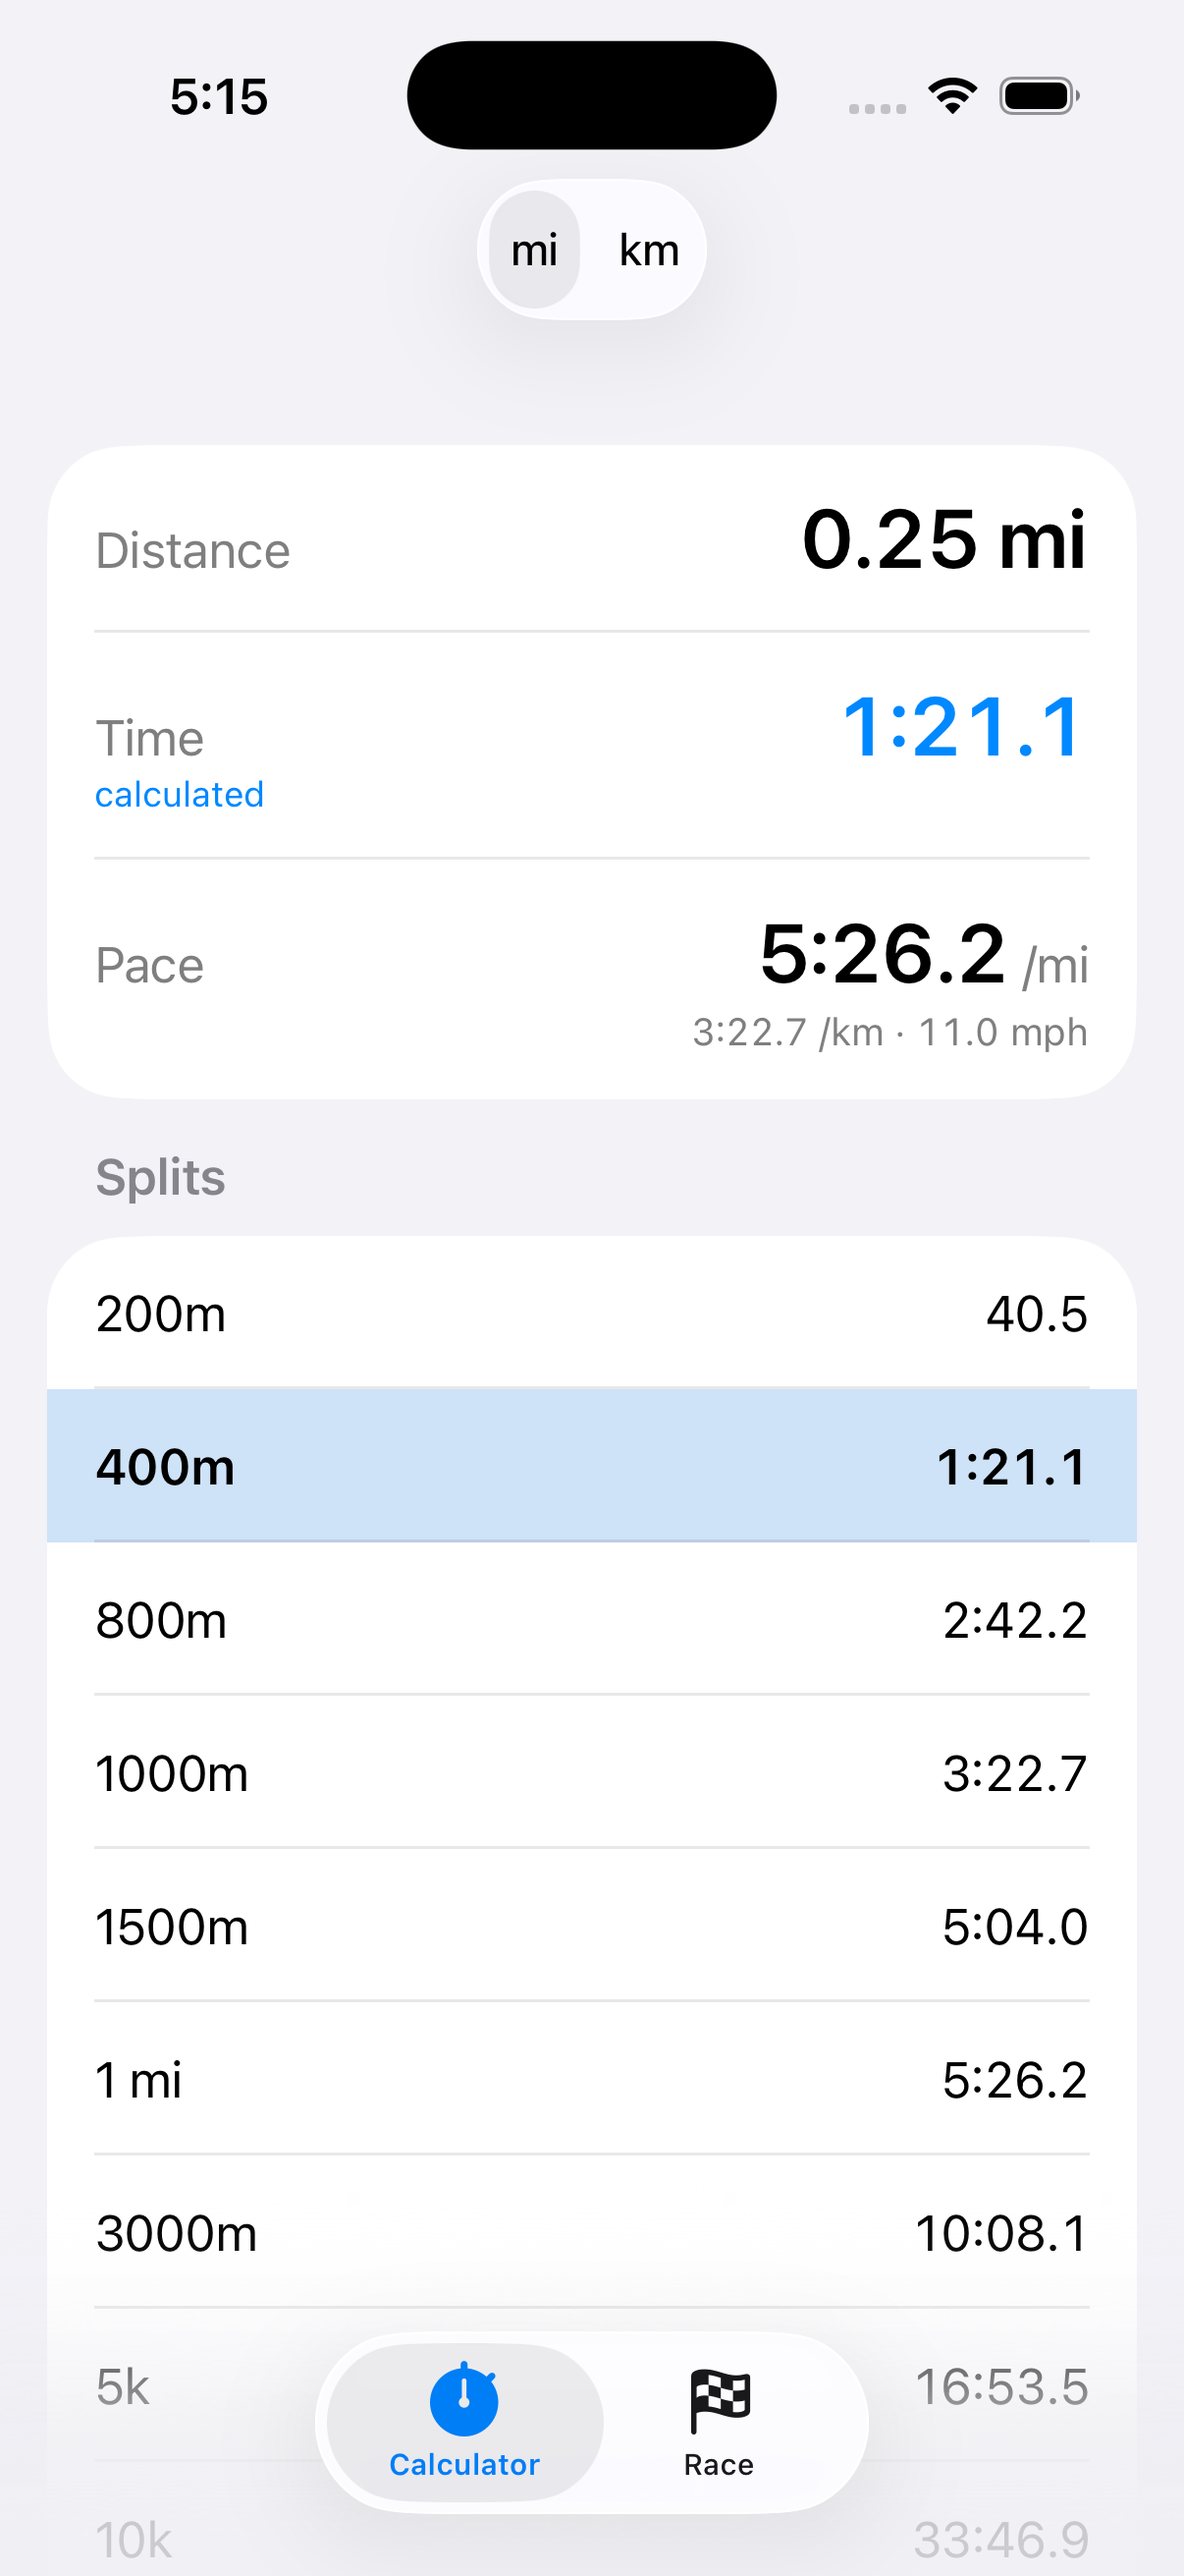
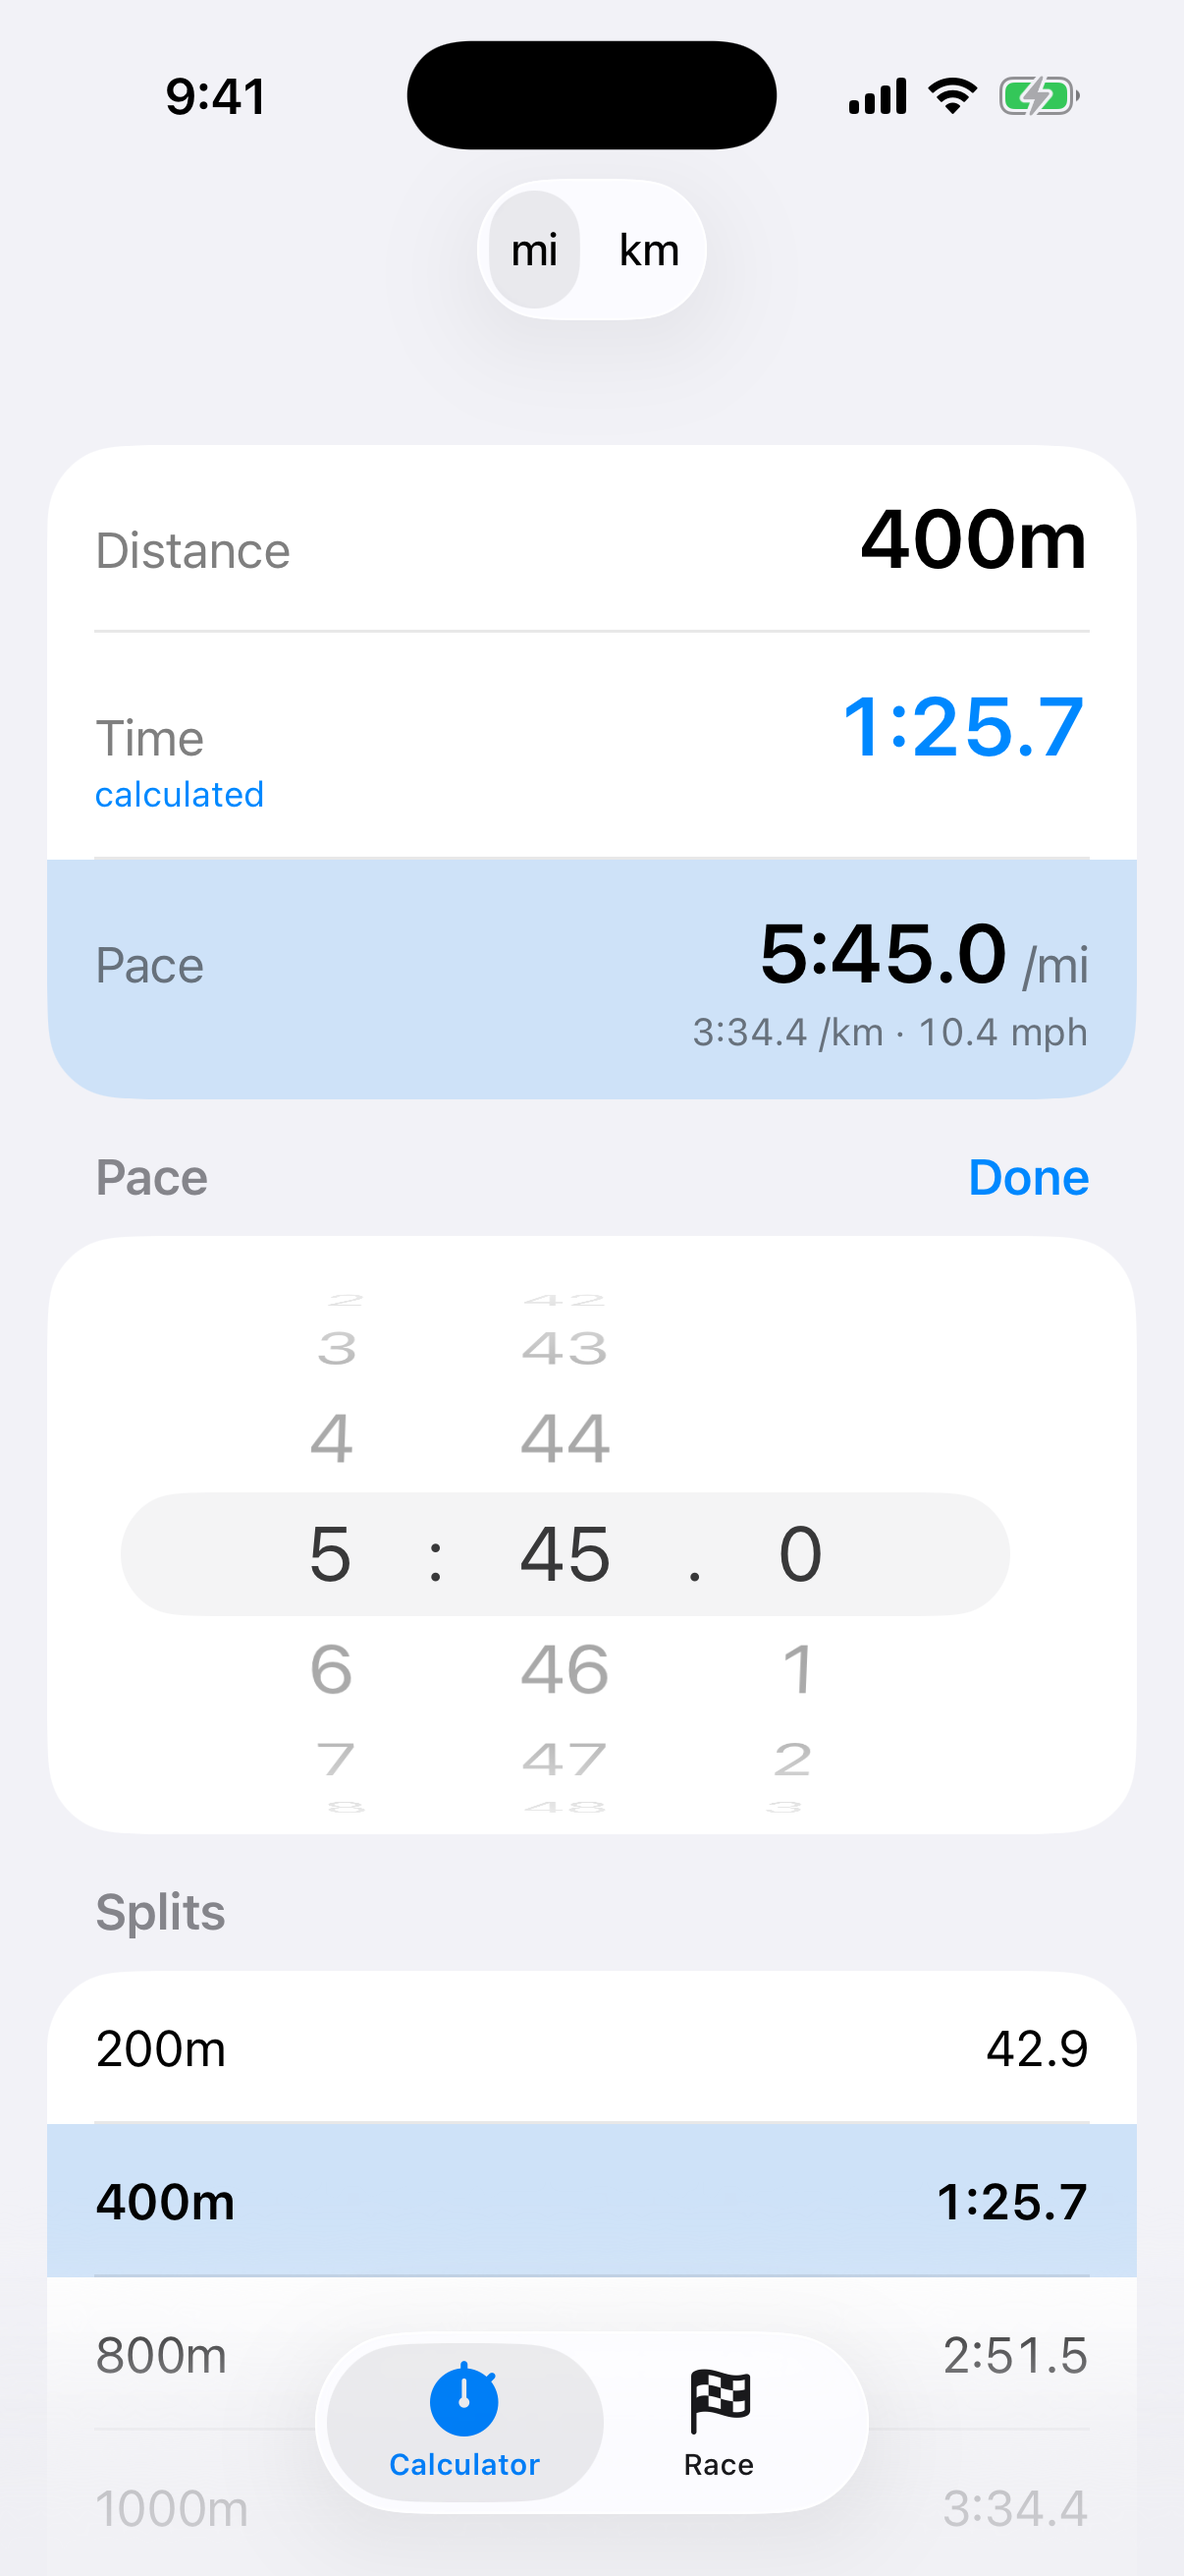
Improve README for the support page
- Add a support email for people without a GitHub account.
- Only claim iPhone, iPad and Android; the Mac version is build-from-source.
- Show the app icon and date the privacy policy.
- Retake the calculator screenshot on the README's first example
  (400m at 5:45/mi = 1:25.7), using a new Debug-only -demo launch argument.

diff --git a/PaceCalculator/Calculator/CalculatorView.swift b/PaceCalculator/Calculator/CalculatorView.swift
@@ -21,8 +21,8 @@ struct CalculatorView: View {
     @AppStorage("customDistanceUnit") private var customUnit: DistanceUnit = .mi
     @Environment(\.isWideLayout) private var isWide
 
-    @State private var calc = Calculation(distance: PresetDistance.k5.distance, time: 20 * 60)
-    @State private var editing: CalculatorField?
+    @State private var calc = Demo.calculation ?? Calculation(distance: PresetDistance.k5.distance, time: 20 * 60)
+    @State private var editing: CalculatorField? = Demo.editing
     @State private var isCustomDistance = false
 
     var body: some View {
@@ -208,4 +208,24 @@ private struct FieldRow: View {
         .accessibilityElement(children: .combine)
         .accessibilityHint(isCalculated ? "Calculated. Double-tap to edit." : "Double-tap to edit.")
     }
+}
+
+/// Example values for screenshots: launch a Debug build with `-demo` to
+/// open on 400m at 5:45/mi with the pace input showing. Release builds
+/// always start from the defaults.
+private enum Demo {
+    #if DEBUG
+    static let isEnabled = ProcessInfo.processInfo.arguments.contains("-demo")
+    #else
+    static let isEnabled = false
+    #endif
+
+    static var calculation: Calculation? {
+        guard isEnabled else { return nil }
+        var calc = Calculation(distance: PresetDistance.m400.distance, time: 0)
+        calc.setPace(Pace(secondsPer: .mi, 345))
+        return calc
+    }
+
+    static var editing: CalculatorField? { isEnabled ? .pace : nil }
 }

diff --git a/README.md b/README.md
@@ -1,9 +1,11 @@
+<img src="PaceCalculator/Assets.xcassets/AppIcon.appiconset/icon-1024.png" alt="Split Pace Pro icon" width="96">
+
 # Split Pace Pro
 
-A fast, no-fuss pace calculator for runners and race fans, for iPhone, iPad, Mac and Android. Scroll to set your distance and time (no typing) and get your answer instantly. Then follow live races split by split with projected finish times.
+A fast, no-fuss pace calculator for runners and race fans, for iPhone, iPad and Android. Scroll to set your distance and time (no typing) and get your answer instantly. Then follow live races split by split with projected finish times.
 
 <p>
-  <img src="docs/screenshots/iphone-calculator.png" alt="Calculator: distance, time and calculated pace, with times for every common distance" width="260">
+  <img src="docs/screenshots/iphone-calculator.png" alt="Calculator: 400m at 5:45 per mile is 1:25.7, with the pace being set and times for every common distance below" width="260">
   <img src="docs/screenshots/iphone-race.png" alt="Race mode: following the men's and women's marathons, with projected finish times" width="260">
   <img src="docs/screenshots/android-race.png" alt="Race mode on Android" width="260">
 </p>
@@ -40,7 +42,7 @@ Follow a race live, split by split:
 
 ## Support
 
-Found a bug, have a question, or want to suggest a feature? [Open an issue](../../issues) on this repository, and include your device and what you were doing if something went wrong.
+Found a bug, have a question, or want to suggest a feature? Email **[multi-uplands-4p@icloud.com](mailto:multi-uplands-4p@icloud.com)**, or [open an issue](../../issues) on this repository if you have a GitHub account. If something went wrong, include your device and what you were doing.
 
 ### Common questions
 
@@ -56,11 +58,13 @@ Found a bug, have a question, or want to suggest a feature? [Open an issue](../.
 
 ## Privacy
 
+_Last updated: October 14, 2026_
+
 Split Pace Pro doesn't collect, store or share any personal data. There are no accounts, ads, analytics or tracking, and the app makes no network connections. Your settings and saved races stay on your device and are removed when you delete the app.
 
 ## Building from source
 
-- **iOS / iPadOS / macOS:** SwiftUI app. The Xcode project is generated with [XcodeGen](https://github.com/yonaskolb/XcodeGen): run `xcodegen generate`, then open `PaceCalculator.xcodeproj`. The calculation logic lives in the `PaceCore` Swift package (`swift test` in `PaceCore/`).
+- **iOS / iPadOS / macOS:** SwiftUI app (the Mac version is only available by building from source). The Xcode project is generated with [XcodeGen](https://github.com/yonaskolb/XcodeGen): run `xcodegen generate`, then open `PaceCalculator.xcodeproj`. The calculation logic lives in the `PaceCore` Swift package (`swift test` in `PaceCore/`).
 - **Android:** Kotlin + Jetpack Compose in `android/`. Build with `./gradlew assembleRelease` (requires JDK 17+, e.g. Android Studio's bundled one).
 
 Both platforms are checked against the same test cases in `PaceCore/Tests/PaceCoreTests/fixtures.json`. See [docs/PLAN.md](docs/PLAN.md) for the design.

diff --git a/docs/PLAN.md b/docs/PLAN.md
@@ -115,6 +115,7 @@ Minimums: iOS 17, macOS 14.
 
 - **iOS:** TestFlight. Run `scripts/testflight.sh` to archive and upload a build with the Apple ID signed into Xcode; build numbers come from the UTC date/time. Testers are managed in App Store Connect → TestFlight.
 - **Android:** share the APK from `cd android && ./gradlew assembleRelease`, bumping `versionCode`/`versionName` in `android/app/build.gradle.kts` for each release so it installs as an update.
+- **Screenshots:** launch a Debug build with the `-demo` argument (e.g. `xcrun simctl launch <device> com.conorsleith.SplitPacePro -demo`) to open the calculator on 400m at 5:45/mi with the pace input showing. Release builds ignore it.
 - **App icon:** `scripts/make-icon.swift` renders the iOS/macOS icon (white stopwatch on #1A73E8), matching the Android adaptive icon.
 
 ## Architecture
